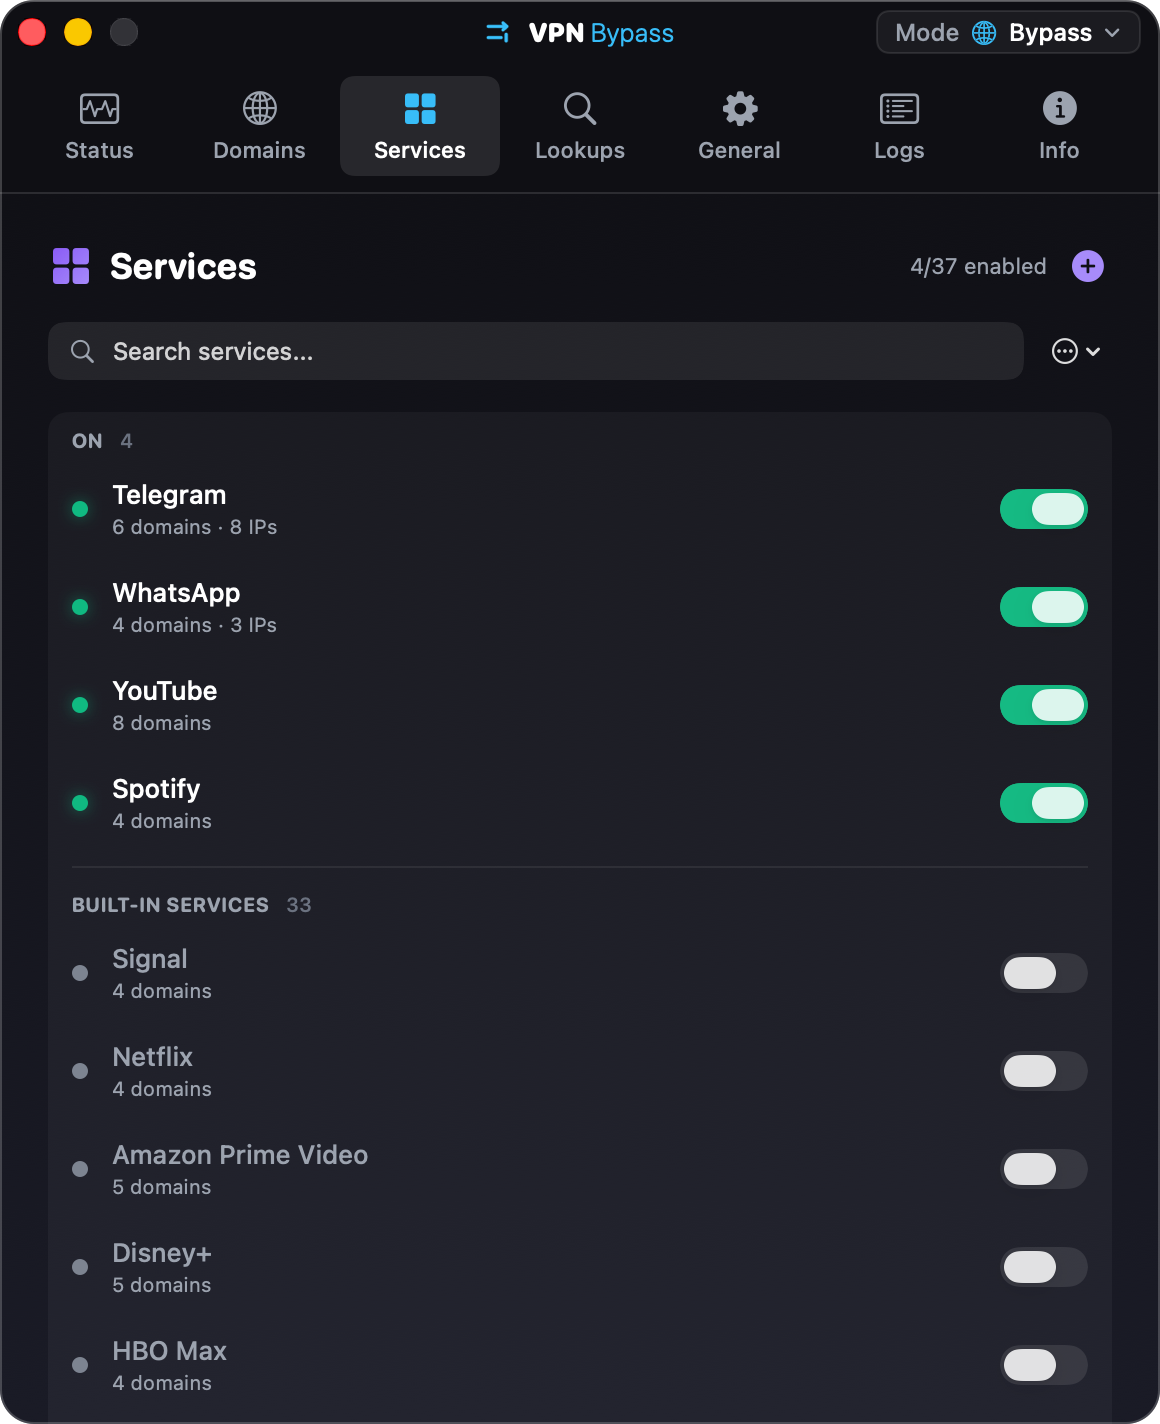
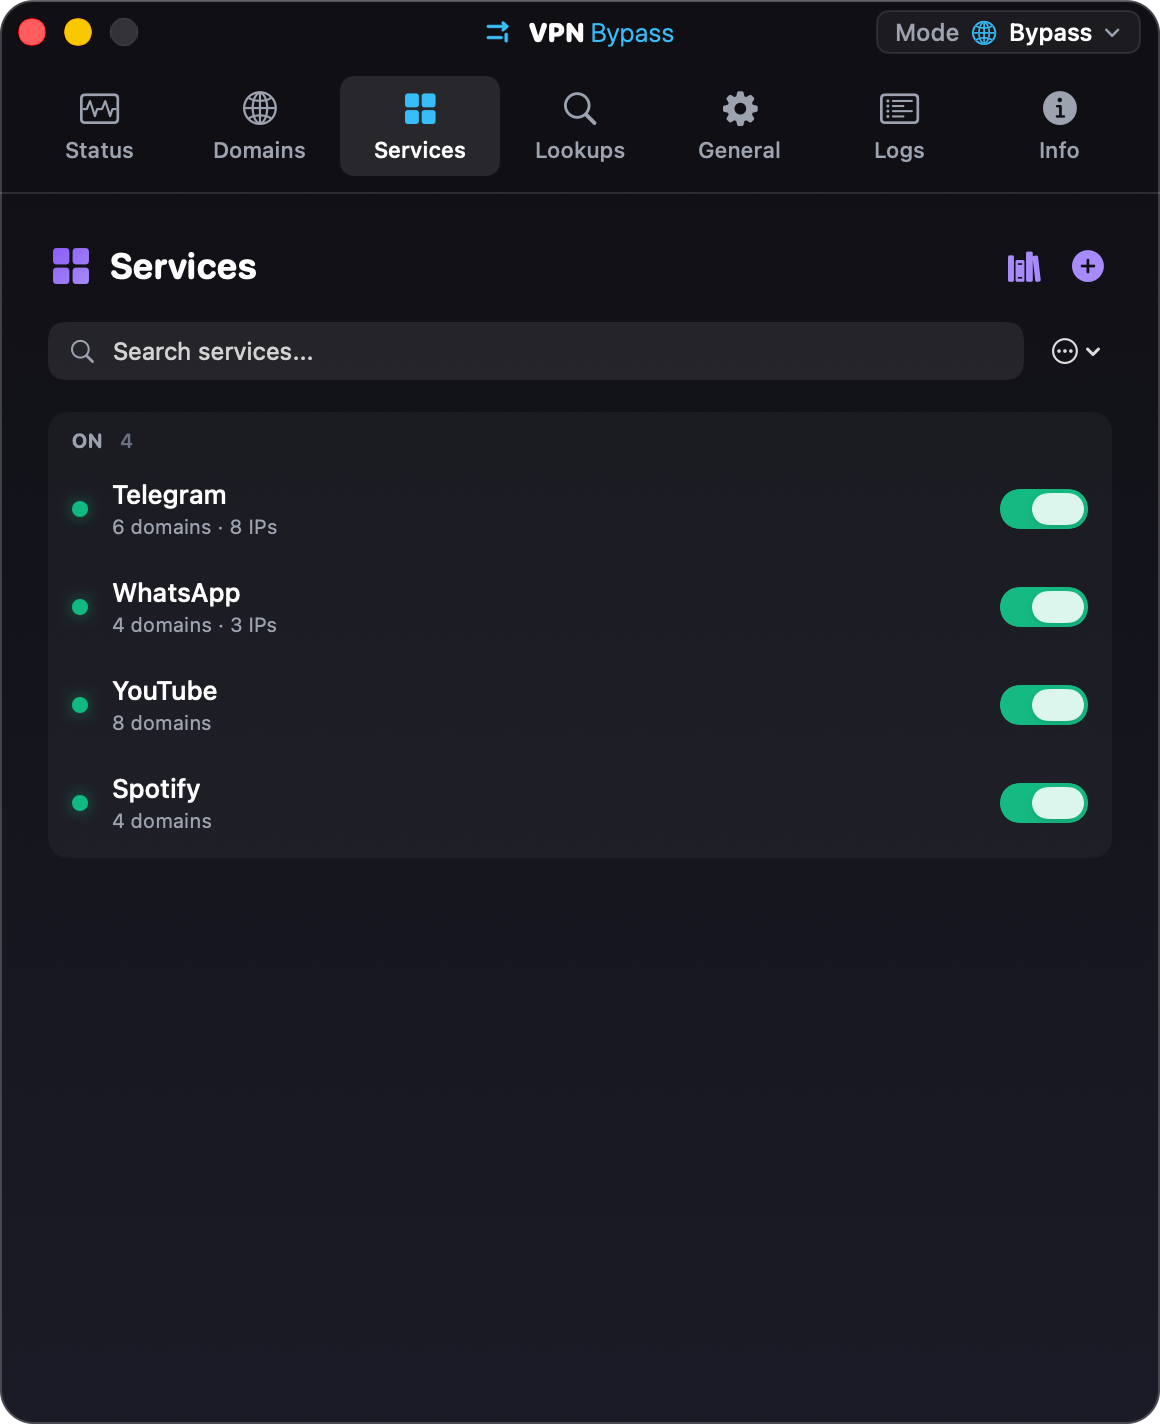
docs: describe the service catalogue and its best-effort policy
The docs still said the Services page lists 37 built-in services. They now
describe the page as your services, the Browse catalogue sheet, Turn All On
covering the page only, and what vpnb service.list and enable do with the
catalogue. The Services and first-run screenshots are re-rendered and the
sheet gets its own.

CLAUDE.md Best Practices now says the catalogue is best effort: no churn,
only new services in a clear category and fixes for domains that no longer
work, and users adjust a service themselves instead of editing it.

Closes #185

diff --git a/Tests/VPNBypassTests/DocScreenshotsTests.swift b/Tests/VPNBypassTests/DocScreenshotsTests.swift
@@ -126,6 +126,21 @@ final class DocScreenshotsTests: XCTestCase {
         XCTAssertEqual(size, NSSize(width: 1160, height: 1424))
     }
 
+    /// The catalogue sheet on the Banks chip, two banks picked: "Bypass 2 services".
+    func testCatalogueSheet() throws {
+        seedBypass()
+        let hosting = NSHostingView(rootView: CatalogueSheet(category: .banks, picked: ["fr_lcl", "fr_boursobank"]) { _ in }
+            .environmentObject(rm))
+        let window = DocScreenshotKeyWindow(contentRect: NSRect(x: 0, y: 0, width: 520, height: 600),
+                                            styleMask: [.borderless], backing: .buffered, defer: false)
+        window.appearance = NSAppearance(named: .darkAqua)
+        window.contentView = hosting
+        show(window)
+        settle(hosting)
+        let size = try write(hosting, cornerRadius: 12, outline: NSColor(white: 1, alpha: 0.2), to: "catalogue.png")
+        XCTAssertEqual(size.width, 1040)
+    }
+
     func testSettingsOnDomains() throws {
         seedBypass()
         let size = try renderSettings(page: .domains, to: "domains.png")

diff --git a/docs/usage.md b/docs/usage.md
@@ -30,13 +30,17 @@ Click the gear icon to access settings. The pages are in a toolbar under the tit
 
 The routing mode is the Mode menu at the right end of the title bar, for example "Mode Bypass". Picking another mode in it opens a sheet that lists the three modes, each with one sentence and what your lists hold for it ("4 services and 2 domains"). For Custom it says "Your lists become rules." when the switch will build them, which happens when Custom has no rules yet and the current mode's list has an entry switched on. Otherwise it says how many rules Custom has. Nothing changes until you click Switch, and the title bar keeps showing the mode in use until then.
 
-![The Services tab: the four services that are on, Telegram, WhatsApp, YouTube and Spotify, listed first under On, then the other built-in services, each with a switch](images/screenshots/services.png){ width="580" }
+![The Services tab: the four services that are on, Telegram, WhatsApp, YouTube and Spotify, under On, each with a switch, and the Browse catalogue button at the top](images/screenshots/services.png){ width="580" }
 
 ![The Domains tab, titled Bypass list: two domains, each with its switch on, and the field to add another](images/screenshots/domains.png){ width="580" }
 
 Domains: the Bypass list in Bypass mode and the VPN Only list in VPN Only mode, each titled after its mode. Add domains, enable/disable them individually, see resolved IPs. The ⋯ menu next to the count holds Turn All On and Turn All Off.
 
-Services: toggle built-in service packs (Telegram, YouTube, Spotify, …); each bundles known domains and IP ranges. The page lists the services that are on first, under On. The rest follow in the usual order, custom services before built-in ones. A service you switch on or off keeps its place until you next open the page, so a row never moves from under the pointer. That holds for a newly created service too, and for a service switched through `vpnb` while the page is open. The ⋯ menu next to the search field holds Turn All On… and Turn All Off, and both re-sort the list at once. Turn All On asks first when it would turn on more than five services ("Send 33 services around the VPN?"), with Cancel as the default button. Turn All Off does not ask. ⌘F puts the cursor in the search field.
+Services: the page lists your services, the ones that are on, under On, then your custom services that are off. Each service bundles known domains and IP ranges. The app ships a catalogue of services (Telegram, YouTube, Spotify, French government sites, French banks, …), one file per category inside the app; nothing is downloaded. The books button at the top, "Browse catalogue…", opens it: a search field (name, domain or country, so "France" finds the French government and every French bank), a chip per category, a checkbox per service and a select-all box per category. "Bypass 3 services" turns the picked ones on with one save and one batch of route writes, and they join the page. A service that is already on shows checked and greyed out, and one a custom service holds off by its name shows why. A search on the page that finds nothing offers "Search the catalogue" with the same text. Switching a catalogue service off sends it back to the catalogue: it keeps its row, switch off, until you next open the page. A service you switch on or off keeps its place until then, so a row never moves from under the pointer. That holds for a newly created service too, and for a service switched through `vpnb` while the page is open. The ⋯ menu next to the search field holds Turn All On… and Turn All Off, and both re-sort the list at once. Turn All On covers the services on the page only, never the catalogue. It asks first when it would turn on more than five services ("Send 8 services around the VPN?"), with Cancel as the default button. Turn All Off does not ask. ⌘F puts the cursor in the search field.
+
+![The catalogue sheet on the Banks chip: the French banks, two of them picked, and the button "Bypass 2 services"](images/screenshots/catalogue.png){ width="580" }
+
+The catalogue is a starting point, not a complete list. When a service needs a name it does not ship, add the name to it from the Lookups page, or make a custom service.
 
 Custom services: the + button on the Services page creates one, with a name, its domains and optional IP ranges. The app tracks routes by name, so a custom service cannot take the name of another service, built-in or custom, or of a domain on the Bypass list. Case and spaces around the name do not count, so Netflix already has "netflix". When a name is taken, the editor outlines it in red, says which service or domain has it, and keeps Save off. Importing a configuration file with such a name imports nothing and names the service to rename in the file. The rule holds the other way too: the Bypass list refuses a domain that a service has as its name, from the Domains tab, from Undo and from `vpnb domain.add`. A configuration saved before this check still loads, with one change: a built-in service that one of its custom services has the name of is turned off. A custom service in it whose name is taken shows the same red line under its row on the Services page. Editing a service whose name is taken asks for a new name before it saves, and renaming or deleting it puts back the routes of the service or domain that had the same name. Services route only in Bypass mode, so in VPN Only or Custom mode deleting it leaves in place the routes of a VPN Only entry, the VPN Only catch-all or a rule with that name. An app update can add a built-in service whose name one of your custom services already has. Your custom service keeps its name, its switch and its routes. The built-in service stays off, and its switch stays greyed out with a line that names your custom service, until you rename it.
 
@@ -59,9 +63,9 @@ Status: whether the app is working right now, on one page. A line at the top giv
 
 Lookups: the names this Mac looks up, most frequent first, for when you do not know what to add. It is off until you turn on Watch DNS Lookups. Then the helper runs `tcpdump` to read the DNS questions the Mac sends on every interface, the VPN included. It never reads the answers, questions other devices send to this Mac, or any other traffic, and it never puts an interface in promiscuous mode. A name counts once per 3 seconds, so the A, AAAA and HTTPS questions a browser sends for one visit are one lookup. Search filters the list and Clear starts the count again. A row the mode does not route yet shows only its count and its name, so the names get the width. Point at the row and its button appears, saying what it does in the current mode: Add to Bypass, Add to VPN Only, or Send Direct (a rule to Direct in Custom mode). VoiceOver offers the same actions on the row. When a service that is off lists the exact name, built-in or custom, the button reads Turn on and the service's name, and turns that service on, unless a custom service holds a built-in one off by its name; then the line under the search says why and nothing changes.
 
-The chevron beside the button opens the add panel, anchored to the row. What to add: the exact name, chosen by default, or a wildcard over it at any level, so api.us5.datadoghq.com offers `*.us5.datadoghq.com` and `*.datadoghq.com`. The widest is the site's own domain: never `*.com`, and three labels under a country suffix such as co.uk or com.au (`*.bbc.co.uk`, never `*.co.uk`). A wildcard covers every name under it, routed by the helper as each one is looked up, so Watch DNS Lookups does not have to stay on. How that works, and its limits: [research/wildcards-and-network-extension.md](research/wildcards-and-network-extension.md). Where: in Bypass mode, the Bypass list, New Service…, which makes a custom service with the choice as its first domain, or any service, built-in or custom, with a search field. Services that are off are marked off, and the ones that already hold a name under the same site domain come first. Eight services show at once; a longer list scrolls inside its box. In VPN Only mode the panel offers the VPN Only list only, since services route only in Bypass mode. In Custom mode it adds a rule to Direct: a domain rule for the exact name, a suffix rule for a wildcard. Add saves the choice (Return), Cancel or Escape closes the panel.
+The chevron beside the button opens the add panel, anchored to the row. What to add: the exact name, chosen by default, or a wildcard over it at any level, so api.us5.datadoghq.com offers `*.us5.datadoghq.com` and `*.datadoghq.com`. The widest is the site's own domain: never `*.com`, and three labels under a country suffix such as co.uk or com.au (`*.bbc.co.uk`, never `*.co.uk`). A wildcard covers every name under it, routed by the helper as each one is looked up, so Watch DNS Lookups does not have to stay on. How that works, and its limits: [research/wildcards-and-network-extension.md](research/wildcards-and-network-extension.md). Where: in Bypass mode, the Bypass list, New Service…, which makes a custom service with the choice as its first domain, or any service, built-in or custom, with a search field. Services that are off are marked off, and the ones that already hold a name under the same site domain come first. A name added to a catalogue service that is off waits there until you add the service from Browse catalogue. Eight services show at once; a longer list scrolls inside its box. In VPN Only mode the panel offers the VPN Only list only, since services route only in Bypass mode. In Custom mode it adds a rule to Direct: a domain rule for the exact name, a suffix rule for a wildcard. Add saves the choice (Return), Cancel or Escape closes the panel.
 
-A name added to a built-in service is kept apart from the service's shipped domains, so it survives restarts and app updates. The Services page lists it under the service as Added, with a button to remove it; the shipped domains cannot be removed.
+A name added to a built-in service is kept apart from the service's shipped domains, so it survives restarts, app updates, and switching the service off and back on from the catalogue. The Services page lists it under the service as Added, with a button to remove it; the shipped domains cannot be removed.
 
 A name the mode already routes says so in small grey text: Bypassed, with the service's name when a service has it, Via VPN, or the route its rule sends it to. A wildcard counts: with `*.datadoghq.com` on the Bypass list, every name under it reads Bypassed. Point at the row and the status turns into a button that takes the name back out, through the same path as the Domains, Services or Rules page, so its routes go too:
 
@@ -134,7 +138,7 @@ vpnb logs limit=20 level=error
 - `domain.list` shows both lists, the Bypass list first; `list=bypass` or `list=vpnOnly` shows one. The VPN Only list also takes a CIDR.
 - `domain.add` adds to the Bypass list unless you pass `list=vpnOnly`. It cleans and checks the value the way the Domains tab does. The Bypass list refuses an IP range such as `10.0.0.0/24` and takes a pasted link as its host name, and the VPN Only list refuses a malformed CIDR and a `/0` or `/1`. Adding a domain that is already on the list, or one that a service has as its name, returns `already_exists`.
 - `domain.rm`, `domain.enable` and `domain.disable` take `domain=` or `id=<uuid>`, and look in both lists unless you pass `list=`. They read `domain=` by the same rule as `domain.add`, so a value that added an entry also finds it: on the Bypass list `https://example.com/page` and `example.com/page` find `example.com`, and with `list=vpnOnly` a value with a `/` must be a CIDR such as `10.0.0.0/8`. Without `list=`, a link is looked up on both lists by its host. A malformed range such as `10.0.0.0/33` returns `invalid_args`. When the same domain is on both lists, pass `list=bypass` or `list=vpnOnly`.
-- `service.list id=netflix` shows one service with its domains and IP ranges. `service.disable` turns a service off. `service.enable` returns `already_exists` for a built-in service that one of your custom services has the name of; rename the custom service first.
+- `service.list` lists every catalogue service with its switch, plus your custom services. `service.list id=netflix` shows one service with its domains and IP ranges. `service.enable` on a catalogue service adds it to the Services page; `service.disable` turns a service off and sends a catalogue service back to the catalogue. `service.enable` returns `already_exists` for a built-in service that one of your custom services has the name of; rename the custom service first.
 - Enabling something that is already on, or disabling something already off, succeeds and changes nothing.
 - A domain or service change is saved before `vpnb` returns. The routes for that entry are added or removed a moment later, and only while a VPN is connected and the app is in the mode that uses that list: Bypass mode for the Bypass list and the services, VPN Only mode for the VPN Only list. Run `vpnb routes.active` or `vpnb logs` to see them.
 - `routes.active` lists the routes the app has installed; `source=<domain or service name>` keeps one source. `routes.clear` is Remove All Routes… in the dropdown's "…" menu, without the question, and the routes it removes come back at the next refresh, VPN reconnect or DNS refresh.

diff --git a/README.md b/README.md
@@ -21,7 +21,7 @@ Corporate VPN clients send everything through the tunnel, so streaming stalls, A
 <p align="center">
   <img src="docs/images/screenshots/menu-bar.png" alt="The VPN Bypass dropdown in Bypass mode: WireGuard connected, ON, four services and two domains skip the VPN" width="300">
   &nbsp;&nbsp;
-  <img src="docs/images/screenshots/services.png" alt="The Settings window on the Services tab: 4 of 37 services on, Telegram, WhatsApp, YouTube and Spotify listed first under On" width="400">
+  <img src="docs/images/screenshots/services.png" alt="The Settings window on the Services tab: Telegram, WhatsApp, YouTube and Spotify under On, with the Browse catalogue button at the top" width="400">
   <br>
   <sub>The dropdown in Bypass mode, and the Settings window on the Services tab</sub>
 </p>
@@ -29,7 +29,7 @@ Corporate VPN clients send everything through the tunnel, so streaming stalls, A
 ## Features
 
 - Three modes: Bypass sends the destinations you list around the VPN, VPN Only sends only them through it, and Custom routes each rule where you say, first match wins.
-- 37 built-in service packs (Telegram, WhatsApp, YouTube, Netflix, Spotify, Zoom, GitHub and more) plus any domain, wildcard or subnet you add.
+- A catalogue of 51 services (Telegram, WhatsApp, YouTube, Netflix, Spotify, Zoom, GitHub, French government sites and French banks, and more) plus any domain, wildcard or subnet you add.
 - Not sure what to add? Turn on Lookups (off by default) to see the names your Mac looks up, most frequent first, and add any of them with one click.
 - In Custom mode a rule can exit direct, through a specific VPN when several are up, through an HTTP or SOCKS5 proxy, or through a Tailscale peer.
 - Routes come back on their own when the VPN reconnects or the network changes, and domains are re-resolved as their addresses rotate.

diff --git a/CLAUDE.md b/CLAUDE.md
@@ -98,6 +98,7 @@ After CI completes: `brew update && brew upgrade --cask vpn-bypass` to install l
 - **Consider security**: Review code for potential security vulnerabilities
 - **Conventional commits**: Use conventional commit messages (feat:, fix:, docs:, chore:, refactor:, test:, style:)
 - **Semantic versioning**: Follow semver (MAJOR.MINOR.PATCH) for version numbers
+- **The service catalogue is best effort.** The catalogue (`Sources/VPNBypassCore/Resources/catalogue/`) gives each user a sensible starting point, not a complete or always-current list. We avoid constant changes to it: no PRs that chase every CDN host or domain shuffle, and no churn. We accept two kinds of change: a new service in a clear category, and a fix for a domain that no longer works. Each user is expected to adjust a service as needed, by adding names to a built-in service from the Lookups or Services page, or by making a custom service. That is preferred over editing the catalogue. Ids never change: saved configs, `vpnb` and the MCP server refer to them. How to add an entry: the catalogue's `README.md`.
 
 ## Learned Patterns
 

diff --git a/docs/index.md b/docs/index.md
@@ -73,7 +73,7 @@ Everything lives in the dropdown: the VPN it found, a pill that says whether rou
 
 Status comes first and says whether it is working right now: the helper, the VPN and gateway, the routes, DNS, the tunnels and recent warnings. Bypass and VPN Only use the Domains and Services tabs. Custom mode swaps them for Rules and Routes. General holds launch at login, `/etc/hosts` and notifications; Logs and Info are for debugging. See [Settings](usage.md#settings).
 
-![The Services tab: the four services that are on, Telegram, WhatsApp, YouTube and Spotify, listed first under On, then the other built-in services, each with a switch](images/screenshots/services.png){ width="580" }
+![The Services tab: the four services that are on, Telegram, WhatsApp, YouTube and Spotify, under On, each with a switch, and the Browse catalogue button at the top](images/screenshots/services.png){ width="580" }
 
 <div class="vb-gallery vb-gallery--2" markdown>
 <figure markdown>

diff --git a/docs/getting-started.md b/docs/getting-started.md
@@ -48,7 +48,7 @@ A fresh install routes nothing. The pill in the dropdown reads NOT SET UP, and t
 
 ![The dropdown right after install: WireGuard connected, the pill reads NOT SET UP, and the question What should skip the VPN? over six services with switches and a field to add a site](images/screenshots/first-run.png){ width="340" }
 
-Switch on a service there, or type a site into the field and press Return. "All 37 services…" opens Settings on the Services page. If you want the opposite, only a few sites on the VPN, click "Use VPN Only instead…". It worked when:
+Switch on a service there, or type a site into the field and press Return. "All 51 services…" opens Settings on the Services page with the service catalogue open. If you want the opposite, only a few sites on the VPN, click "Use VPN Only instead…". It worked when:
 
 - the pill reads ON;
 - the menu bar mark shows its arrow head (it is two plain lines and a bar while nothing is routed);
